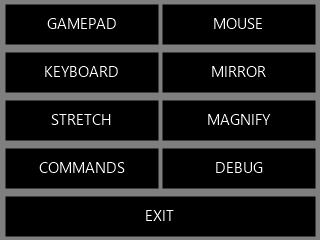
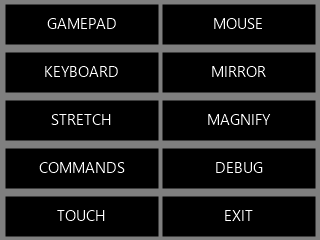
Hold START for a C-stick mouse; Touch view with real touch events
- Holding START for about a second toggles the C-stick between the
  right stick and a mouse pointer (12 px per event at full deflection,
  sub-pixel carry), with ZL/ZR as mouse buttons while it is active. The
  right stick reads centred to the host meanwhile. Off switch: Input
  Settings, "Hold START for mouse".
- New TOUCH entry in the stream menu: the Mirror view, but touches go
  out as LiSendTouchEvent so Windows treats the stylus as a touch
  screen. Hosts without LI_FF_PEN_TOUCH_EVENTS get mouse clicks instead.
  The menu bitmap's bottom row is now TOUCH | EXIT.

Changed region(s): [[0.4375, 0.8167, 0.5625, 0.9917], [0.1875, 0.875, 0.3438, 0.9333], [0.6875, 0.875, 0.7812, 0.9333]]

diff --git a/src/input/n3ds_input.cpp b/src/input/n3ds_input.cpp
@@ -27,6 +27,7 @@
 #include <limits.h>
 #include <math.h>
 #include <stdio.h>
+#include <stdlib.h>
 #include <string.h>
 
 #define TOUCH_GAMEPAD_BUTTONS (SPECIAL_FLAG | LS_CLK_FLAG | RS_CLK_FLAG)
@@ -45,11 +46,13 @@
 
 N3dsInput::N3dsInput(int image_width, int image_height, bool swap_face_buttons,
                      bool swap_triggers_and_shoulders,
-                     bool use_triggers_for_mouse_in, bool motion_controls_in) {
+                     bool use_triggers_for_mouse_in, bool motion_controls_in,
+                     bool cstick_mouse_in) {
     hidInit();
     HIDUSER_GetGyroscopeRawToDpsCoefficient(&gyro_coeff);
     use_triggers_for_mouse = use_triggers_for_mouse_in;
     motion_controls = motion_controls_in;
+    cstick_mouse_enabled = cstick_mouse_in;
     _add_gamepad();
 
     // Ternary setup is less efficient, but more readable.
@@ -232,8 +235,59 @@ void N3dsInput::n3dsinput_handle_event() {
     gamepad_state.rightStickY =
         scale_n3ds_axis(cstick_pos.dy, N3DS_C_STICK_MAX);
 
+    // Holding START for about a second toggles the C-stick between the right
+    // stick and a mouse pointer (ZL/ZR become its buttons). The START press
+    // itself still reaches the host, as moonlight-qt's version of this does.
+    if (cstick_mouse_enabled) {
+        if (hidKeysHeld() & KEY_START) {
+            u64 now = svcGetSystemTick();
+            if (start_held_since == 0) {
+                start_held_since = now;
+                start_hold_handled = false;
+            } else if (!start_hold_handled &&
+                       now - start_held_since > SYSCLOCK_ARM11) {
+                start_hold_handled = true;
+                cstick_mouse_active = !cstick_mouse_active;
+                mouse_remainder_x = mouse_remainder_y = 0;
+                if (!cstick_mouse_active && !use_triggers_for_mouse) {
+                    // Let go of any mouse button the triggers were holding
+                    if (gamepad_state.leftTrigger)
+                        LiSendMouseButtonEvent(BUTTON_ACTION_RELEASE,
+                                               BUTTON_LEFT);
+                    if (gamepad_state.rightTrigger)
+                        LiSendMouseButtonEvent(BUTTON_ACTION_RELEASE,
+                                               BUTTON_RIGHT);
+                }
+            }
+        } else {
+            start_held_since = 0;
+        }
+    }
+    if (cstick_mouse_active) {
+        // Up to ~12 px per input event at full deflection, with a small dead
+        // zone; fractions carry over so slow movement still registers.
+        const int deadzone = 12;
+        int dx = cstick_pos.dx, dy = cstick_pos.dy;
+        if (abs(dx) < deadzone)
+            dx = 0;
+        if (abs(dy) < deadzone)
+            dy = 0;
+        if (dx || dy) {
+            mouse_remainder_x += dx * 12.0f / N3DS_C_STICK_MAX;
+            mouse_remainder_y -= dy * 12.0f / N3DS_C_STICK_MAX;
+            int mx = (int)mouse_remainder_x, my = (int)mouse_remainder_y;
+            mouse_remainder_x -= mx;
+            mouse_remainder_y -= my;
+            if (mx || my)
+                LiSendMouseMoveEvent((short)mx, (short)my);
+        }
+        // The host sees a centred right stick while the C-stick is the mouse
+        gamepad_state.rightStickX = 0;
+        gamepad_state.rightStickY = 0;
+    }
+
     if (_gamepad_state_changed()) {
-        if (use_triggers_for_mouse) {
+        if (use_triggers_for_mouse || cstick_mouse_active) {
             if (previous_state.leftTrigger != gamepad_state.leftTrigger) {
                 LiSendMouseButtonEvent(gamepad_state.leftTrigger
                                            ? BUTTON_ACTION_PRESS

diff --git a/src/input/touch/PassthroughTouchHandler.cpp b/src/input/touch/PassthroughTouchHandler.cpp
@@ -1,0 +1,83 @@
+/*
+ * This file is part of Moonlight Embedded.
+ *
+ * Moonlight is free software; you can redistribute it and/or modify
+ * it under the terms of the GNU General Public License as published by
+ * the Free Software Foundation; either version 3 of the License, or
+ * (at your option) any later version.
+ *
+ * Moonlight is distributed in the hope that it will be useful,
+ * but WITHOUT ANY WARRANTY; without even the implied warranty of
+ * MERCHANTABILITY or FITNESS FOR A PARTICULAR PURPOSE.  See the
+ * GNU General Public License for more details.
+ *
+ * You should have received a copy of the GNU General Public License
+ * along with Moonlight; if not, see <http://www.gnu.org/licenses/>.
+ */
+
+#include "TouchHandler.hpp"
+#include <Limelight.h>
+
+// The 3DS has one touch point; Sunshine identifies it by this pointer id
+static const uint32_t POINTER_ID = 1;
+
+PassthroughTouchHandler::PassthroughTouchHandler() {
+    supported = (LiGetHostFeatureFlags() & LI_FF_PEN_TOUCH_EVENTS) != 0;
+}
+
+PassthroughTouchHandler::~PassthroughTouchHandler() {
+    if (touching) {
+        if (supported) {
+            LiSendTouchEvent(LI_TOUCH_EVENT_CANCEL_ALL, POINTER_ID, 0, 0, 0,
+                             0, 0, LI_ROT_UNKNOWN);
+        } else {
+            LiSendMouseButtonEvent(BUTTON_ACTION_RELEASE, BUTTON_LEFT);
+        }
+    }
+}
+
+bool PassthroughTouchHandler::send(uint8_t event_type, touchPosition touch) {
+    // Coordinates are fractions of the host's screen; the bottom screen is
+    // mapped onto the whole display, like the Mirror view
+    float x = touch.px / (float)GSP_SCREEN_HEIGHT_BOTTOM;
+    float y = touch.py / (float)GSP_SCREEN_WIDTH;
+    int rc = LiSendTouchEvent(event_type, POINTER_ID, x, y, 1.0f, 0.0f, 0.0f,
+                              LI_ROT_UNKNOWN);
+    if (rc == LI_ERR_UNSUPPORTED) {
+        supported = false;
+        return false;
+    }
+    return true;
+}
+
+void PassthroughTouchHandler::_handle_touch_down(touchPosition touch) {
+    touching = true;
+    if (supported && send(LI_TOUCH_EVENT_DOWN, touch)) {
+        return;
+    }
+    LiSendMousePositionEvent(touch.px, touch.py, GSP_SCREEN_HEIGHT_BOTTOM,
+                             GSP_SCREEN_WIDTH);
+    LiSendMouseButtonEvent(BUTTON_ACTION_PRESS, BUTTON_LEFT);
+}
+
+void PassthroughTouchHandler::_handle_touch_hold(touchPosition touch) {
+    if (!touching) {
+        return;
+    }
+    if (supported && send(LI_TOUCH_EVENT_MOVE, touch)) {
+        return;
+    }
+    LiSendMousePositionEvent(touch.px, touch.py, GSP_SCREEN_HEIGHT_BOTTOM,
+                             GSP_SCREEN_WIDTH);
+}
+
+void PassthroughTouchHandler::_handle_touch_up(touchPosition touch) {
+    if (!touching) {
+        return;
+    }
+    touching = false;
+    if (supported && send(LI_TOUCH_EVENT_UP, touch)) {
+        return;
+    }
+    LiSendMouseButtonEvent(BUTTON_ACTION_RELEASE, BUTTON_LEFT);
+}

diff --git a/src/input/n3ds_input.hpp b/src/input/n3ds_input.hpp
@@ -28,7 +28,7 @@ class N3dsInput : public ISubscriber {
   public:
     N3dsInput(int image_width, int image_height, bool swap_face_buttons,
               bool swap_triggers_and_shoulders, bool use_triggers_for_mouse_in,
-              bool motion_controls_in = false);
+              bool motion_controls_in = false, bool cstick_mouse_in = true);
     ~N3dsInput();
     void accept(IMessage *msg) override;
     void n3dsinput_handle_event();
@@ -55,6 +55,13 @@ class N3dsInput : public ISubscriber {
     bool use_triggers_for_mouse = false;
     bool motion_controls = false;
     bool menu_active = false;
+
+    // Hold START to switch the C-stick between right stick and mouse
+    bool cstick_mouse_enabled = true;
+    bool cstick_mouse_active = false;
+    u64 start_held_since = 0;   // system ticks, 0 = not held
+    bool start_hold_handled = false;
+    float mouse_remainder_x = 0, mouse_remainder_y = 0;
 
     uint32_t CUSTOM_KEY_A;
     uint32_t CUSTOM_KEY_B;

diff --git a/src/input/touch/TouchHandler.hpp b/src/input/touch/TouchHandler.hpp
@@ -177,6 +177,25 @@ class KeyboardTouchHandler : public TouchHandlerBase {
     std::map<int, keycode_info> *selected_keycodes = nullptr;
 };
 
+// Mirror view that sends real touch events (LiSendTouchEvent) so Windows
+// treats the stylus as a touch screen; falls back to the Mirror view's mouse
+// clicks on hosts without touch support.
+class PassthroughTouchHandler : public TouchHandlerBase {
+  public:
+    PassthroughTouchHandler();
+    ~PassthroughTouchHandler();
+
+  private:
+    void _handle_touch_down(touchPosition touch) override;
+    void _handle_touch_up(touchPosition touch) override;
+    void _handle_touch_hold(touchPosition touch) override;
+    bool send(uint8_t event_type, touchPosition touch);
+
+  private:
+    bool supported = true;
+    bool touching = false;
+};
+
 class MirrorTouchHandler : public TouchHandlerBase {
   public:
     MirrorTouchHandler();

diff --git a/src/input/touch/MenuTouchHandler.cpp b/src/input/touch/MenuTouchHandler.cpp
@@ -33,8 +33,7 @@ static std::map<int, std::map<int, N3dsTouchType>> button_map{
     {1, {{0, N3dsTouchType::KEYBOARD}, {1, N3dsTouchType::ABSOLUTE_TOUCH}}},
     {2, {{0, N3dsTouchType::DS_TOUCH}, {1, N3dsTouchType::MAGNIFY_TOUCH}}},
     {3, {{0, N3dsTouchType::SERVER_CMD_TOUCH}, {1, N3dsTouchType::DEBUG_TOUCH}}},
-    // Exit spans the whole bottom row
-    {4, {{0, N3dsTouchType::DISABLED}, {1, N3dsTouchType::DISABLED}}},
+    {4, {{0, N3dsTouchType::PASSTHROUGH_TOUCH}, {1, N3dsTouchType::DISABLED}}},
 };
 
 // HOME stays disallowed while streaming; N3dsInput turns a rejected HOME

diff --git a/src/input/touch/N3dsTouchscreenInput.cpp b/src/input/touch/N3dsTouchscreenInput.cpp
@@ -57,6 +57,9 @@ void N3dsTouchscreenInput::_n3dsinput_set_touch(N3dsTouchType touch_type_in) {
     case N3dsTouchType::ABSOLUTE_TOUCH:
         handler = std::make_unique<MirrorTouchHandler>();
         break;
+    case N3dsTouchType::PASSTHROUGH_TOUCH:
+        handler = std::make_unique<PassthroughTouchHandler>();
+        break;
     case N3dsTouchType::DS_TOUCH:
         handler = std::make_unique<StretchTouchHandler>();
         break;

diff --git a/src/video/n3ds_video_base.cpp b/src/video/n3ds_video_base.cpp
@@ -110,6 +110,7 @@ void VideoDecoderBase::_accept_touch_state_changed(N3dsTouchType ttype) {
             ->set_bottom_screen(keyboard_bgr);
         break;
     case (N3dsTouchType::ABSOLUTE_TOUCH):
+    case (N3dsTouchType::PASSTHROUGH_TOUCH):
         renderer = std::make_unique<N3dsRendererDualScreenMirror>(
             surface_width, surface_height, image_width, image_height,
             pixel_size);

diff --git a/src/system/message.hpp b/src/system/message.hpp
@@ -44,6 +44,9 @@ enum class N3dsTouchType {
     DEBUG_TOUCH,
     // List of the host's server commands (Apollo); tapping one runs it
     SERVER_CMD_TOUCH,
+    // Mirror view whose touches are sent as real touch events (Sunshine's
+    // touch support), falling back to mouse clicks on hosts without it
+    PASSTHROUGH_TOUCH,
 };
 class TouchStateChangedMsg : public IMessage {
   public:
